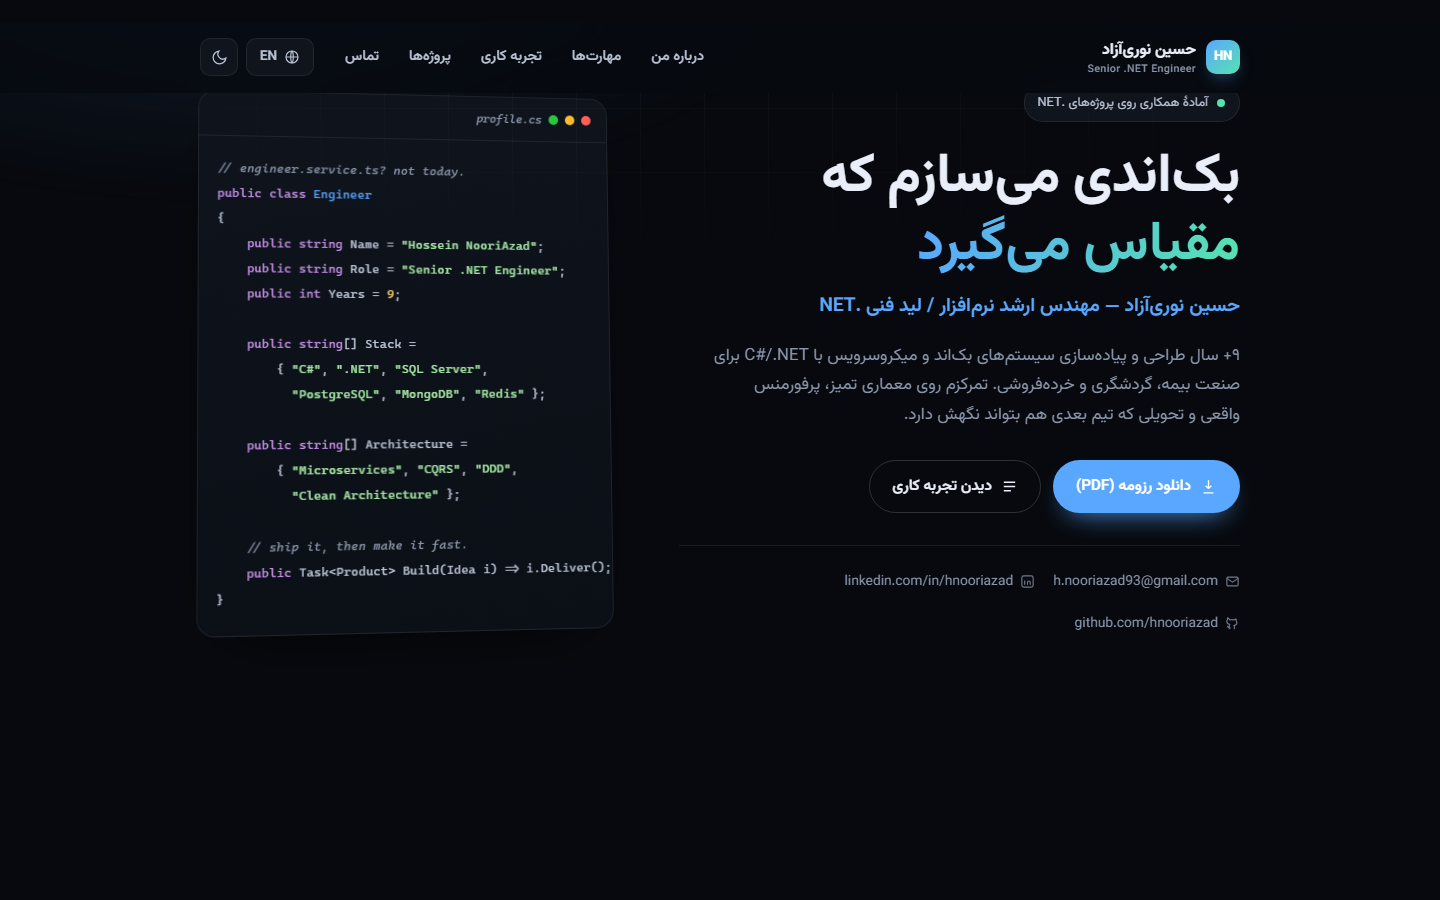
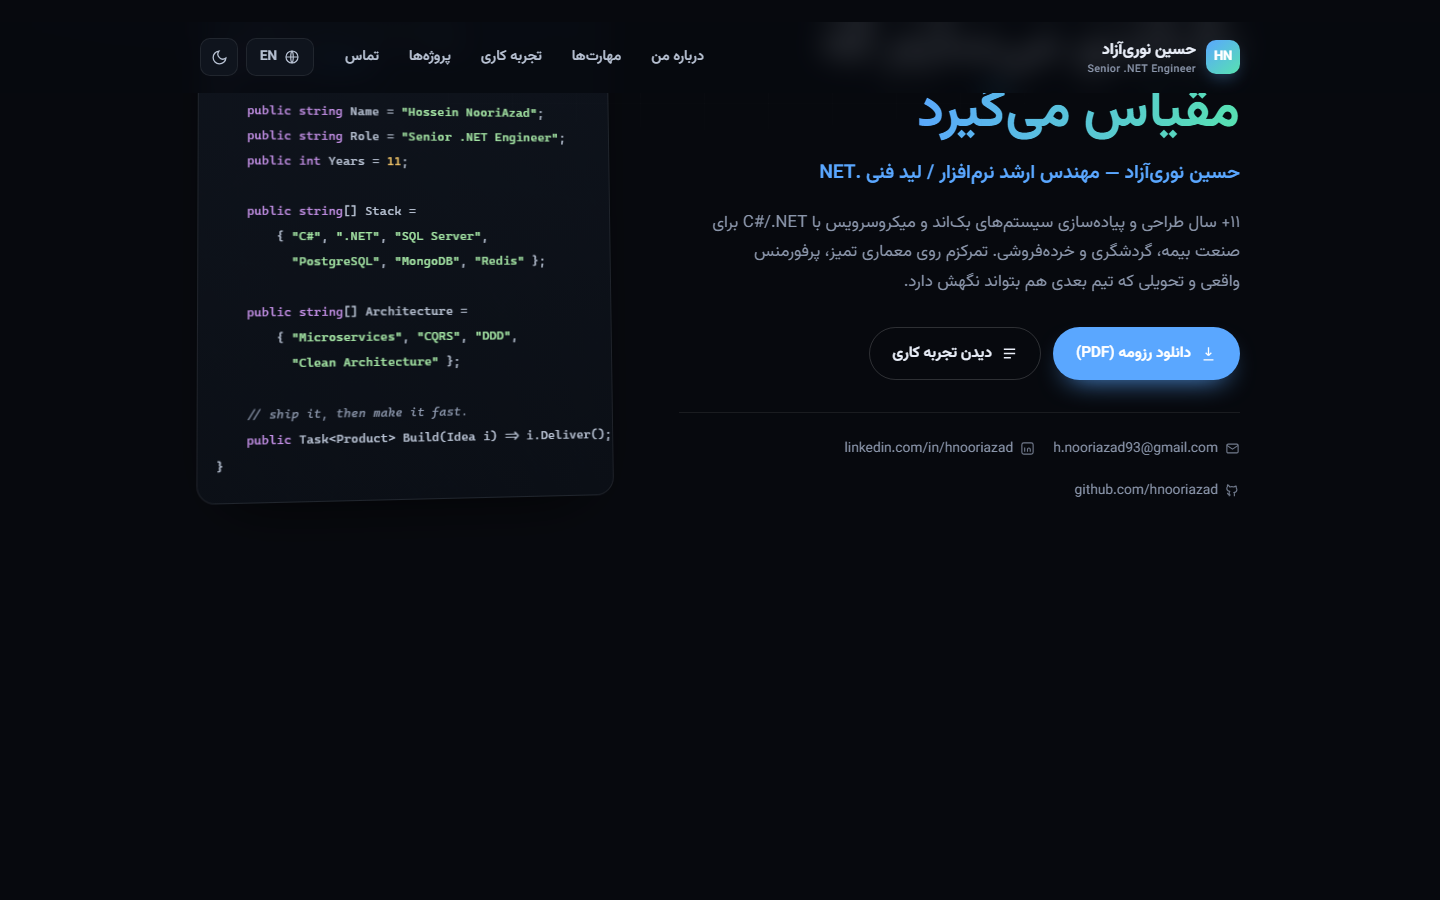
Update data: 11+ years, 5% revenue growth, IRANEIT (was IranElT)

diff --git a/index.html b/index.html
@@ -4,7 +4,7 @@
 <meta charset="UTF-8">
 <meta name="viewport" content="width=device-width, initial-scale=1">
 <title>حسین نوریآزاد | مهندس ارشد نرمافزار و لید فنی .NET</title>
-<meta name="description" content="پورتفولیو حسین نوریآزاد — مهندس ارشد نرمافزار و لید فنی با ۹+ سال تجربه در طراحی و توسعه بکاند، میکروسرویس و معماری تمیز با C#/.NET، SQL Server، PostgreSQL، MongoDB و Redis.">
+<meta name="description" content="پورتفولیو حسین نوریآزاد — مهندس ارشد نرمافزار و لید فنی با ۱۱+ سال تجربه در طراحی و توسعه بکاند، میکروسرویس و معماری تمیز با C#/.NET، SQL Server، PostgreSQL، MongoDB و Redis.">
 <meta name="author" content="Hossein NooriAzad">
 <meta name="theme-color" content="#07090e">
 <link rel="canonical" href="https://nooriazad.ir/">
@@ -18,7 +18,7 @@
 <meta property="og:locale" content="fa_IR">
 <meta property="og:site_name" content="nooriazad.ir">
 <meta property="og:title" content="حسین نوریآزاد | مهندس ارشد نرمافزار و لید فنی .NET">
-<meta property="og:description" content="۹+ سال تجربه در بکاند و میکروسرویس با .NET. معماری تمیز، پرفورمنس بالا، تحویل قابلاتکا.">
+<meta property="og:description" content="۱۱+ سال تجربه در بکاند و میکروسرویس با .NET. معماری تمیز، پرفورمنس بالا، تحویل قابلاتکا.">
 <meta property="og:url" content="https://nooriazad.ir/">
 <meta property="og:image" content="https://nooriazad.ir/assets/img/og.png">
 <meta name="twitter:card" content="summary_large_image">
@@ -100,7 +100,7 @@
       <h1>بکاندی میسازم که<br><span class="grad">مقیاس میگیرد</span></h1>
       <p class="hero__role">حسین نوریآزاد — مهندس ارشد نرمافزار / لید فنی .NET</p>
       <p class="hero__lead">
-        ۹+ سال طراحی و پیادهسازی سیستمهای بکاند و میکروسرویس با C#/.NET برای صنعت بیمه،
+        ۱۱+ سال طراحی و پیادهسازی سیستمهای بکاند و میکروسرویس با C#/.NET برای صنعت بیمه،
         گردشگری و خردهفروشی. تمرکزم روی معماری تمیز، پرفورمنس واقعی و تحویلی که تیم بعدی هم
         بتواند نگهش دارد.
       </p>
@@ -137,7 +137,7 @@
 {
     <span class="k">public string</span> Name = <span class="s">"Hossein NooriAzad"</span>;
     <span class="k">public string</span> Role = <span class="s">"Senior .NET Engineer"</span>;
-    <span class="k">public int</span> Years = <span class="n">9</span>;
+    <span class="k">public int</span> Years = <span class="n">11</span>;
 
     <span class="k">public string</span>[] Stack =
         { <span class="s">"C#"</span>, <span class="s">".NET"</span>, <span class="s">"SQL Server"</span>,
@@ -157,10 +157,10 @@
 <!-- ══════════════ STATS ══════════════ -->
 <div class="container" style="padding-bottom: clamp(20px,4vw,40px)">
   <div class="stats reveal">
-    <div class="stat"><div class="stat__num">۹+</div><div class="stat__label">سال تجربهٔ توسعه</div></div>
+    <div class="stat"><div class="stat__num">۱۱+</div><div class="stat__label">سال تجربهٔ توسعه</div></div>
     <div class="stat"><div class="stat__num">۲۰۰+</div><div class="stat__label">پروژه در اکوسیستم بیمه</div></div>
     <div class="stat"><div class="stat__num">۹۰٪</div><div class="stat__label">بهبود سرعت جستجو</div></div>
-    <div class="stat"><div class="stat__num">۳۰٪</div><div class="stat__label">رشد درآمد محصول</div></div>
+    <div class="stat"><div class="stat__num">۵٪</div><div class="stat__label">رشد درآمد محصول</div></div>
   </div>
 </div>
 
@@ -175,14 +175,14 @@
     <div class="about">
       <div class="reveal">
         <p>
-          من <strong>حسین نوریآزاد</strong> هستم؛ مهندس نرمافزار با ۹+ سال تجربه در ساخت
+          من <strong>حسین نوریآزاد</strong> هستم؛ مهندس نرمافزار با ۱۱+ سال تجربه در ساخت
           سیستمهای بکاند سازمانی. مسیرم از SQL و گزارشسازی شروع شد، با اپلیکیشنهای دسکتاپ
           و DevExpress ادامه پیدا کرد و امروز روی معماری میکروسرویس، Clean Architecture و
           سیستمهای پرترافیک متمرکز است.
         </p>
         <p>
           در <strong>FadakTrains</strong> تیم هتل و تور را لید میکنم؛ جایی که یک قابلیت بکاند
-          (رزرو هتل) بهطور مستقیم حدود <strong>۳۰٪ رشد درآمد</strong> شرکت را رقم زد. پیش از آن
+          (رزرو هتل) بهطور مستقیم حدود <strong>۵٪ رشد درآمد</strong> شرکت را رقم زد. پیش از آن
           در <strong>IWand</strong> معماری ماژولار مونولیت را با .NET 7 بالا آوردم و با بهینهسازی
           دقیق کوئریها و ایندکسگذاری، سرعت پاسخ جستجو را بیش از <strong>۹۰٪</strong> بهتر کردم.
         </p>
@@ -221,7 +221,7 @@
     <div class="head reveal">
       <span class="eyebrow">مهارتها</span>
       <h2 class="section-title">جعبهابزار کاری</h2>
-      <p class="section-sub">ابزارهایی که در ۹ سال گذشته واقعاً با آنها محصول تحویل دادهام — نه لیستی از چیزهایی که فقط یکبار دیدهام.</p>
+      <p class="section-sub">ابزارهایی که در ۱۱ سال گذشته واقعاً با آنها محصول تحویل دادهام — نه لیستی از چیزهایی که فقط یکبار دیدهام.</p>
     </div>
 
     <div class="skills">
@@ -297,7 +297,7 @@
         </div>
         <div class="job__where">لید تیم هتل و تور · تیم ۴ نفره (۲ بکاند، ۲ فرانتاند)</div>
         <ul>
-          <li>لید تیم هتل و تور و توسعهٔ قابلیتهای جدید از جمله <b>رزرو هتل</b> که حدود <mark>۳۰٪ رشد درآمد</mark> شرکت را رقم زد.</li>
+          <li>لید تیم هتل و تور و توسعهٔ قابلیتهای جدید از جمله <b>رزرو هتل</b> که حدود <mark>۵٪ رشد درآمد</mark> شرکت را رقم زد.</li>
           <li>پیادهسازی بکاند سرویسهای هتل و تور و یکپارچهسازی کامل با سرویسهای موجود مثل Identity و سرویس قطار.</li>
           <li>هدایت تیم ۴ نفرهٔ فنی؛ تقسیم تسکها، هماهنگی با مدیر محصول و همکاری نزدیک با تیم UI/UX برای پیادهسازی بدون اصطکاک فیچرها.</li>
         </ul>
@@ -321,7 +321,7 @@
       <article class="job reveal">
         <div class="job__top">
           <h3 class="job__role">توسعهدهنده .NET</h3>
-          <span class="job__company">IranElT</span>
+          <span class="job__company">IRANEIT</span>
           <span class="job__when">فوریه ۲۰۲۱ — دسامبر ۲۰۲۲</span>
         </div>
         <div class="job__where">۲۲ ماه · اکوسیستم بیمهٔ ایران، ۲۰۰+ پروژه</div>
@@ -392,7 +392,7 @@
         <div class="project__kicker">FadakTrains · گردشگری</div>
         <h3>پلتفرم رزرو هتل و تور</h3>
         <p>طراحی و پیادهسازی بکاند رزرو هتل و تور، یکپارچه با سرویسهای Identity و قطار؛ از مدلسازی موجودی و قیمتگذاری تا تجربهٔ رزرو پایدار در ترافیک بالا.</p>
-        <div class="project__metric"><b>۳۰٪</b><span>رشد درآمد شرکت</span></div>
+        <div class="project__metric"><b>۵٪</b><span>رشد درآمد شرکت</span></div>
         <div class="pills"><span class="pill">.NET</span><span class="pill">Microservices</span><span class="pill">Identity</span></div>
       </article>
 
@@ -405,7 +405,7 @@
       </article>
 
       <article class="project reveal">
-        <div class="project__kicker">IranElT · بیمه</div>
+        <div class="project__kicker">IRANEIT · بیمه</div>
         <h3>اکوسیستم میکروسرویس بیمه</h3>
         <p>مشارکت در راهکار جامع میکروسرویسی صنعت بیمه با بیش از ۲۰۰ پروژه؛ توسعهٔ تدریجی دامنهها با رعایت SOLID و همکاری مستقیم با تحلیلگران کسبوکار.</p>
         <div class="project__metric"><b>۲۰۰+</b><span>پروژهٔ یکپارچه</span></div>

diff --git a/en/index.html b/en/index.html
@@ -4,7 +4,7 @@
 <meta charset="UTF-8">
 <meta name="viewport" content="width=device-width, initial-scale=1">
 <title>Hossein NooriAzad | Senior .NET Engineer &amp; Tech Lead</title>
-<meta name="description" content="Portfolio of Hossein NooriAzad — senior software engineer and tech lead with 9+ years building scalable backends and microservices with C#/.NET, SQL Server, PostgreSQL, MongoDB and Redis.">
+<meta name="description" content="Portfolio of Hossein NooriAzad — senior software engineer and tech lead with 11+ years building scalable backends and microservices with C#/.NET, SQL Server, PostgreSQL, MongoDB and Redis.">
 <meta name="author" content="Hossein NooriAzad">
 <meta name="theme-color" content="#07090e">
 <link rel="canonical" href="https://nooriazad.ir/en/">
@@ -18,7 +18,7 @@
 <meta property="og:locale" content="en_US">
 <meta property="og:site_name" content="nooriazad.ir">
 <meta property="og:title" content="Hossein NooriAzad | Senior .NET Engineer &amp; Tech Lead">
-<meta property="og:description" content="9+ years building scalable backends and microservices with .NET. Clean architecture, real performance, dependable delivery.">
+<meta property="og:description" content="11+ years building scalable backends and microservices with .NET. Clean architecture, real performance, dependable delivery.">
 <meta property="og:url" content="https://nooriazad.ir/en/">
 <meta property="og:image" content="https://nooriazad.ir/assets/img/og.png">
 <meta name="twitter:card" content="summary_large_image">
@@ -96,7 +96,7 @@
       <h1>I build backends<br>that <span class="grad">scale</span></h1>
       <p class="hero__role">Hossein NooriAzad — Senior Software Engineer / .NET Tech Lead</p>
       <p class="hero__lead">
-        9+ years designing and shipping backend systems and microservices with C#/.NET across
+        11+ years designing and shipping backend systems and microservices with C#/.NET across
         insurance, travel and retail. I care about clean architecture, measurable performance,
         and delivery the next team can actually maintain.
       </p>
@@ -133,7 +133,7 @@
 {
     <span class="k">public string</span> Name = <span class="s">"Hossein NooriAzad"</span>;
     <span class="k">public string</span> Role = <span class="s">"Senior .NET Engineer"</span>;
-    <span class="k">public int</span> Years = <span class="n">9</span>;
+    <span class="k">public int</span> Years = <span class="n">11</span>;
 
     <span class="k">public string</span>[] Stack =
         { <span class="s">"C#"</span>, <span class="s">".NET"</span>, <span class="s">"SQL Server"</span>,
@@ -151,10 +151,10 @@
 
 <div class="container" style="padding-bottom: clamp(20px,4vw,40px)">
   <div class="stats reveal">
-    <div class="stat"><div class="stat__num">9+</div><div class="stat__label">Years of development</div></div>
+    <div class="stat"><div class="stat__num">11+</div><div class="stat__label">Years of development</div></div>
     <div class="stat"><div class="stat__num">200+</div><div class="stat__label">Insurance-ecosystem projects</div></div>
     <div class="stat"><div class="stat__num">90%</div><div class="stat__label">Faster search responses</div></div>
-    <div class="stat"><div class="stat__num">30%</div><div class="stat__label">Revenue growth delivered</div></div>
+    <div class="stat"><div class="stat__num">5%</div><div class="stat__label">Revenue growth delivered</div></div>
   </div>
 </div>
 
@@ -168,7 +168,7 @@
     <div class="about">
       <div class="reveal">
         <p>
-          I'm <strong>Hossein NooriAzad</strong>, a software engineer with 9+ years building
+          I'm <strong>Hossein NooriAzad</strong>, a software engineer with 11+ years building
           enterprise backends. My path started in SQL and reporting, continued through desktop
           applications on DevExpress, and now focuses on microservices, Clean Architecture and
           high-traffic systems.
@@ -176,7 +176,7 @@
         <p>
           At <strong>FadakTrains</strong> I lead the Hotel &amp; Tour team, where shipping one
           backend capability — hotel booking — moved company revenue by roughly
-          <strong>30%</strong>. Before that at <strong>IWand</strong> I raised a modular monolith
+          <strong>5%</strong>. Before that at <strong>IWand</strong> I raised a modular monolith
           on .NET 7 and cut search response time by more than <strong>90%</strong> through careful
           query and index tuning.
         </p>
@@ -214,7 +214,7 @@
     <div class="head reveal">
       <span class="eyebrow">Skills</span>
       <h2 class="section-title">The toolbox</h2>
-      <p class="section-sub">Tools I've actually shipped production systems with over 9 years — not a list of things I saw once.</p>
+      <p class="section-sub">Tools I've actually shipped production systems with over 11 years — not a list of things I saw once.</p>
     </div>
 
     <div class="skills">
@@ -289,7 +289,7 @@
         </div>
         <div class="job__where">Hotel &amp; Tour team lead · 4-person team (2 backend, 2 frontend)</div>
         <ul>
-          <li>Lead the Hotel &amp; Tour team, shipping new features including <b>hotel booking</b> that lifted company revenue by roughly <mark>30%</mark>.</li>
+          <li>Lead the Hotel &amp; Tour team, shipping new features including <b>hotel booking</b> that lifted company revenue by roughly <mark>5%</mark>.</li>
           <li>Implemented the backend for Hotel and Tour services, integrating seamlessly with existing Identity and Train services.</li>
           <li>Supervised a 4-person technical team; managed task allocation, coordinated with the product manager and worked closely with UI/UX for frictionless delivery.</li>
         </ul>
@@ -313,7 +313,7 @@
       <article class="job reveal">
         <div class="job__top">
           <h3 class="job__role">.NET Developer</h3>
-          <span class="job__company">IranElT</span>
+          <span class="job__company">IRANEIT</span>
           <span class="job__when">Feb 2021 — Dec 2022</span>
         </div>
         <div class="job__where">22 months · Iran insurance sector, 200+ projects</div>
@@ -383,7 +383,7 @@
         <div class="project__kicker">FadakTrains · Travel</div>
         <h3>Hotel &amp; tour booking platform</h3>
         <p>Designed and built the Hotel &amp; Tour backend, integrated with Identity and Train services — from inventory and pricing models to a stable booking flow under real traffic.</p>
-        <div class="project__metric"><b>30%</b><span>company revenue growth</span></div>
+        <div class="project__metric"><b>5%</b><span>company revenue growth</span></div>
         <div class="pills"><span class="pill">.NET</span><span class="pill">Microservices</span><span class="pill">Identity</span></div>
       </article>
 
@@ -396,7 +396,7 @@
       </article>
 
       <article class="project reveal">
-        <div class="project__kicker">IranElT · Insurance</div>
+        <div class="project__kicker">IRANEIT · Insurance</div>
         <h3>Insurance microservice ecosystem</h3>
         <p>Part of a nationwide microservices solution for the insurance sector with 200+ projects, growing domains incrementally with SOLID and close analyst collaboration.</p>
         <div class="project__metric"><b>200+</b><span>integrated projects</span></div>

diff --git a/SPEC.md b/SPEC.md
@@ -25,7 +25,7 @@
 ```
 /                     فارسی، RTL
 ├─ Hero               عنوان + نقش + CTA دانلود رزومه + کارت کد
-├─ Stats              ۹+ سال · ۲۰۰+ پروژه · ۹۰٪ · ۳۰٪
+├─ Stats              ۱۱+ سال · ۲۰۰+ پروژه · ۹۰٪ · ۵٪
 ├─ About              روایت شغلی + ۴ کارت واقعیت (نقش، تحصیلات، تمرکز، زبان)
 ├─ Skills             ۴ گروه: زبان/فریمورک · دیتابیس · معماری · ابزار و متدولوژی
 ├─ Experience         تایملاین ۶ نقش با بولتهای عدددار
@@ -135,7 +135,7 @@ python -m http.server 8088
 - [ ] **عکس پروفایل حرفهای** (مربع، حداقل ۶۰۰px) — الان مونوگرام «HN» جایش را گرفته؛ اگر عکس بدهی در هیرو و OG میگذارم.
 - [ ] **لینک پروژههای قابلنمایش** — اگر ریپوی عمومی یا لندینگ داری، زیر هر کارت نمونهکار لینک بگذاریم.
 - [ ] **شمارهٔ تماس** — در رزومه ماسک شده بود، عمداً نگذاشتم. اگر بخواهی اضافه میکنم (پیشنهاد: فقط ایمیل بماند).
-- [ ] **بازبینی اعداد** — «۹+ سال»، «۳۰٪» و «۹۰٪» مستقیم از رزومه آمده؛ اگر عدد دقیقتری داری جایگزین کن.
+- [ ] **بازبینی اعداد** — «۱۱+ سال»، «۵٪» و «۹۰٪» مستقیم از رزومه آمده؛ اگر عدد دقیقتری داری جایگزین کن.
 - [ ] ثبت دامنه در Search Console و لینکدین.
 
 ---
